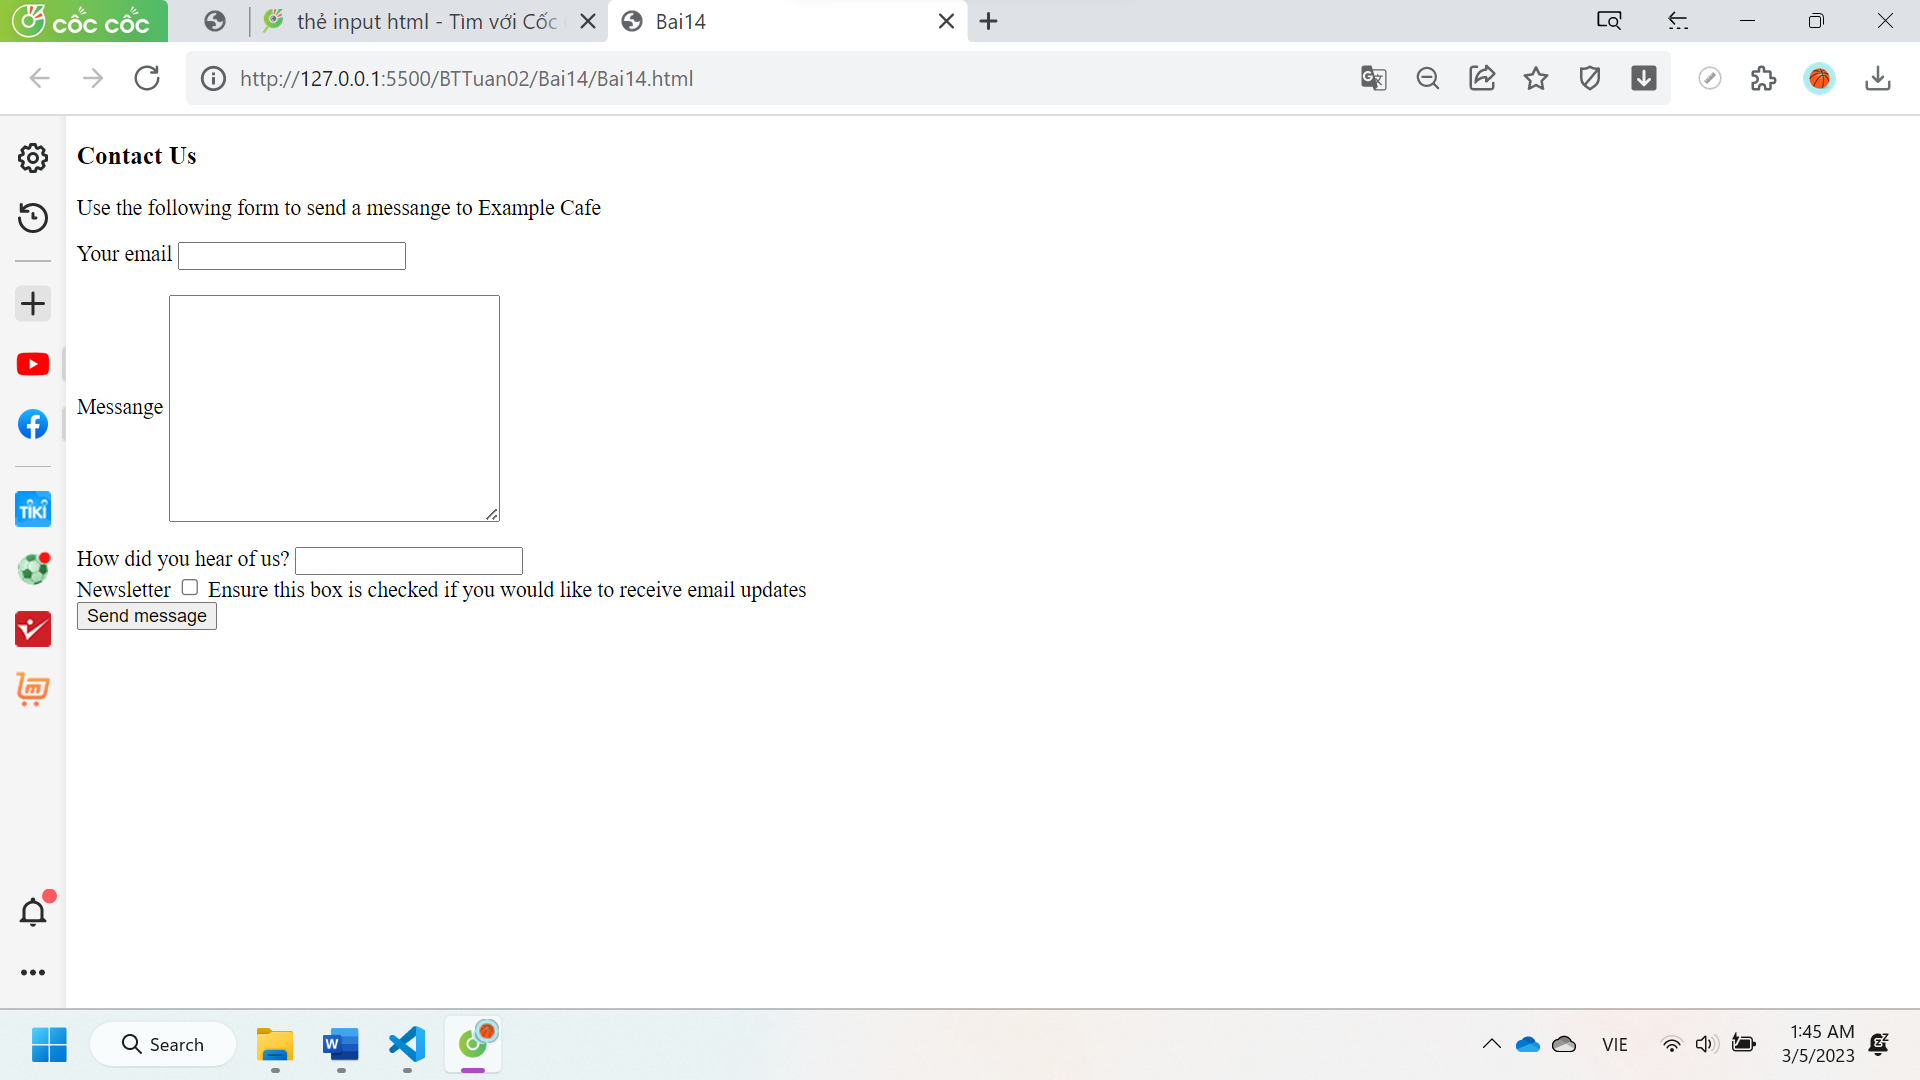
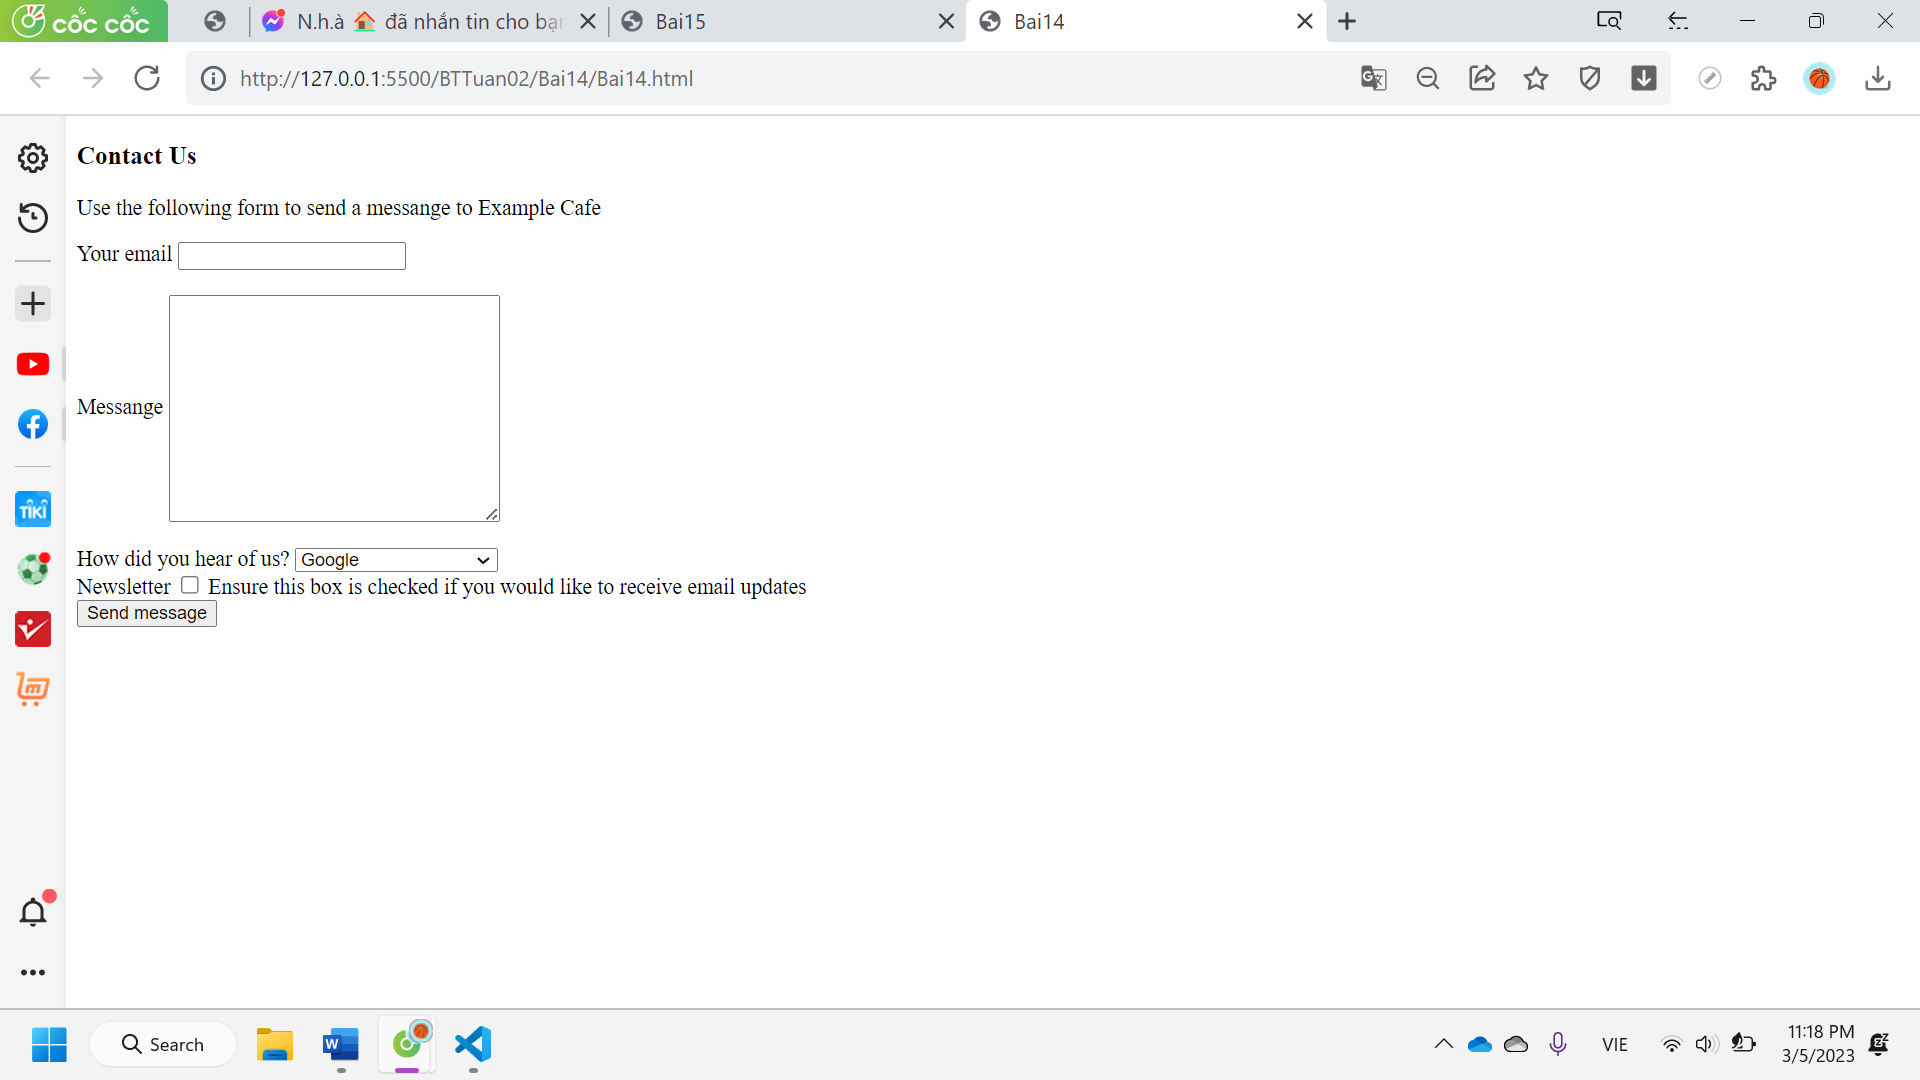
Nop lai bai14

diff --git a/BTTuan02/Bai14/Bai14.html b/BTTuan02/Bai14/Bai14.html
@@ -17,7 +17,7 @@
             <br><br>
             <!-- Thẻ <input type=”search”> được sử dụng cho phép người dùng tìm kiếm các trường 
                 (một trường search hoạt động thông thường như một trường text). -->
-            How did you hear of us? <input type="search" name="search google"> 
+            How did you hear of us? <select name="txtSearch" id="Search" size="1" style="width: 150px;"><option>Google</option></select>
             <br>
             Newsletter <input type="checkbox" name="checkbox" size="20" maxlength="20"> 
             Ensure this box is checked if you would like to receive email updates
